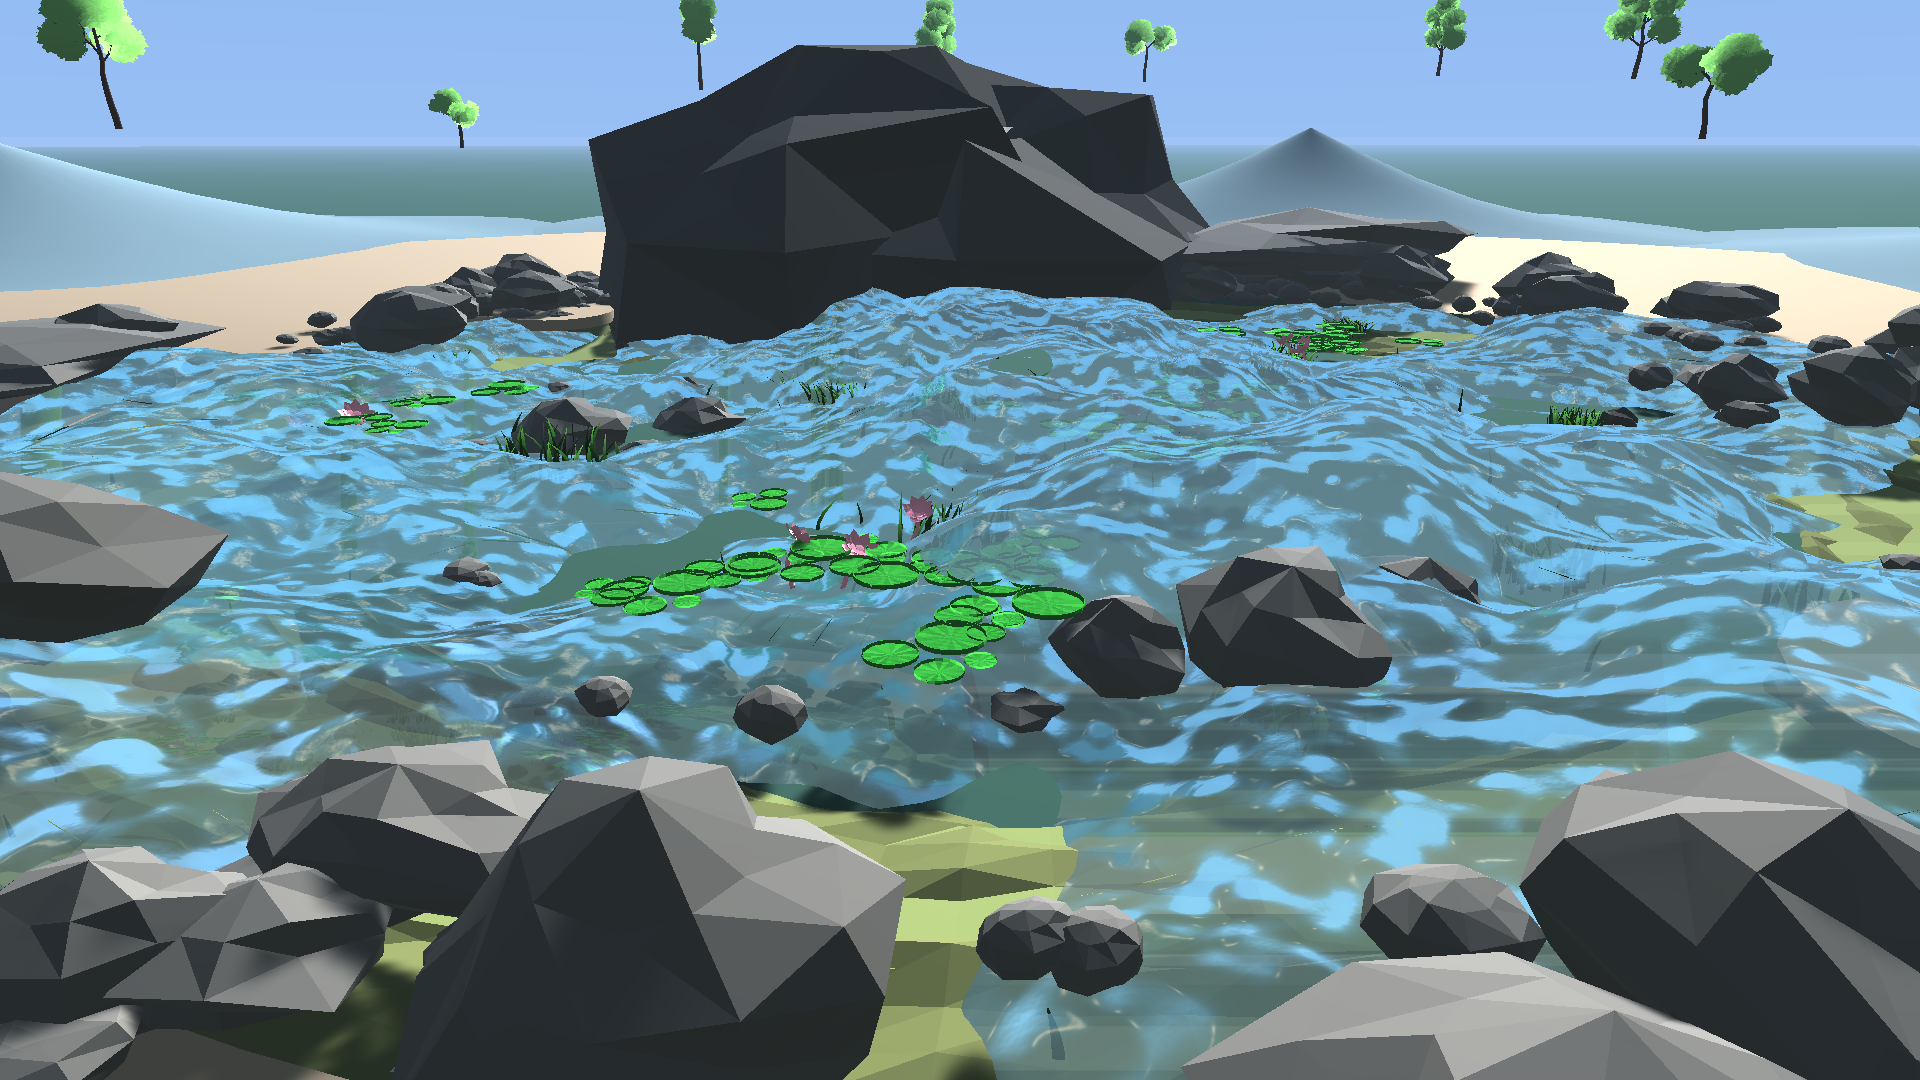
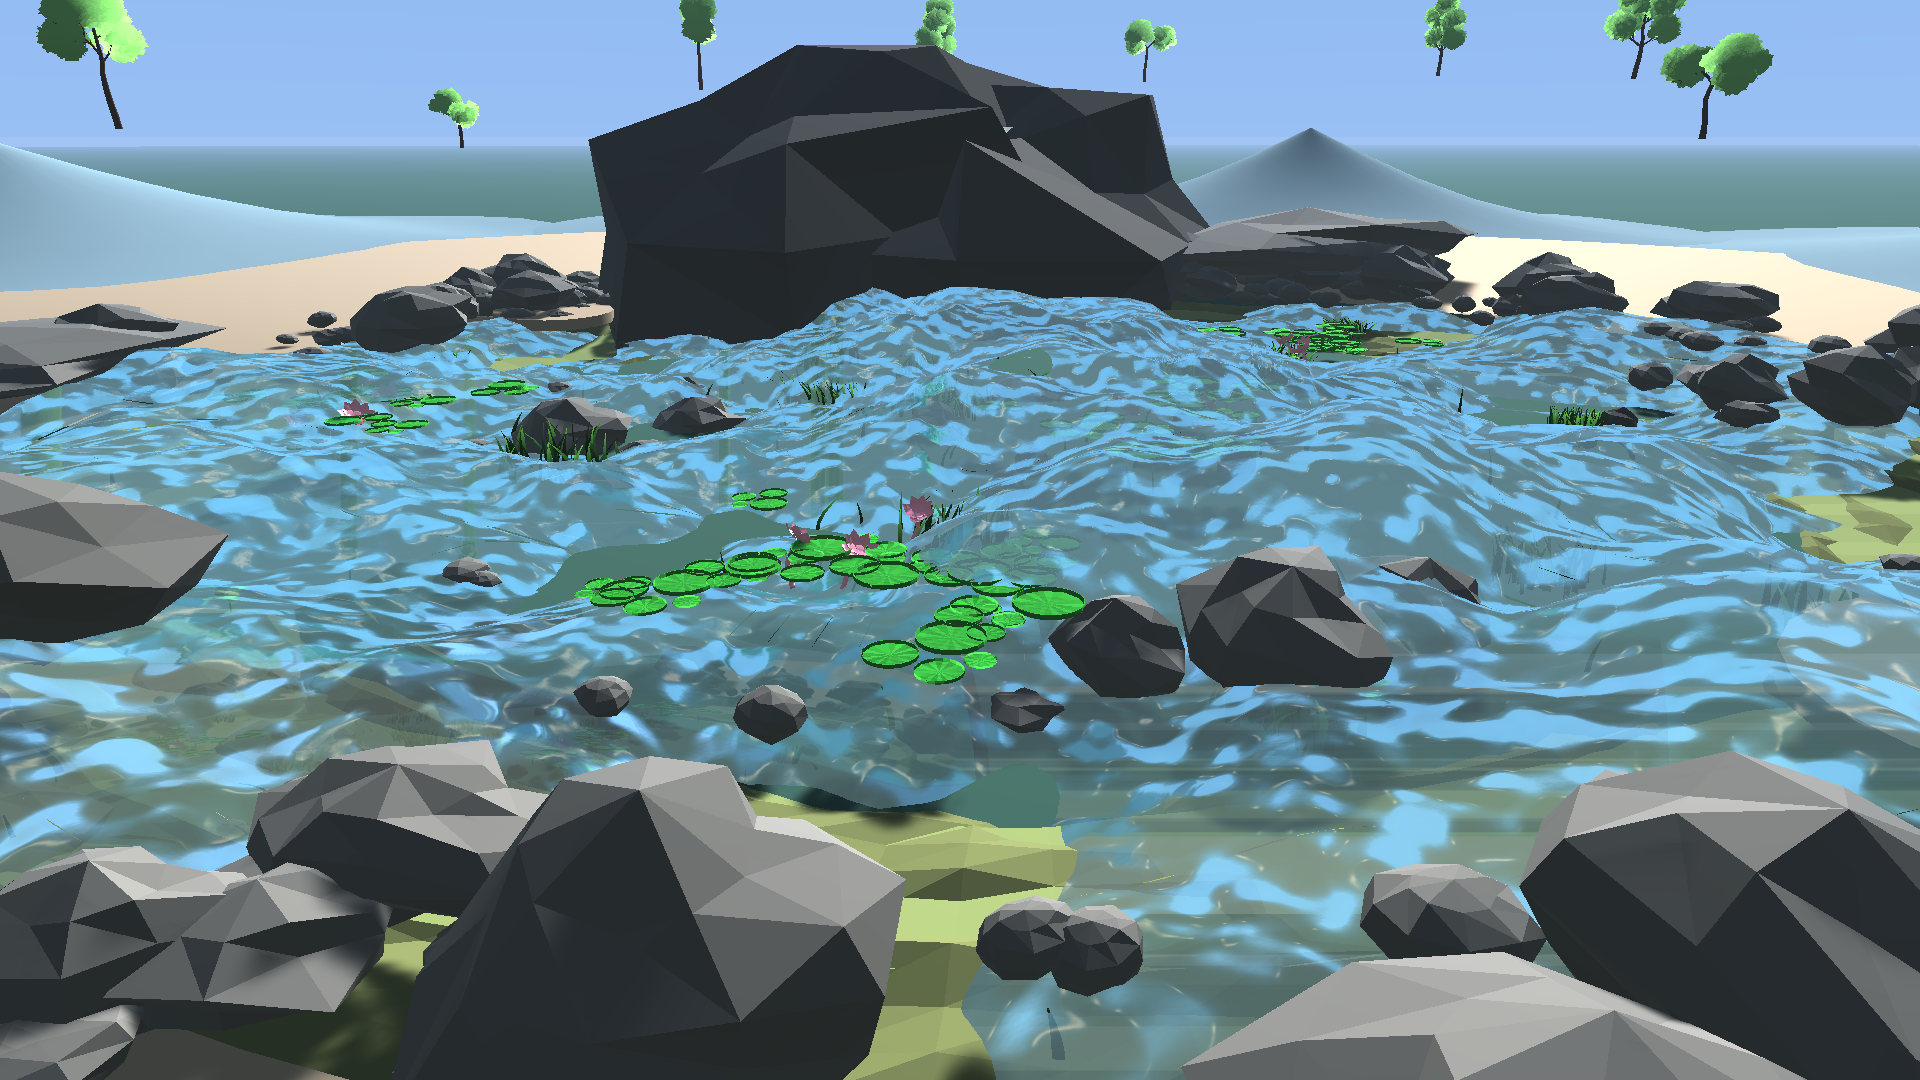
fix(R102): Main 水面'玻璃格子'隔离并修复. ①隔离实验: _DetailStrength=0 时格子完全消失 => 真凶是细节法线(NoiseSlope), 不是焦散/反射 ②根因: NoiseSlope 用 value noise, 等值面是格子的面, 格内斜率恒定 => 扰动法线每格同朝向 => 高光切成多边形(和云同一个病) ③修法: NoiseSlope 内部换梯度噪声Perlin + _DetailStrength 1.4->0.5 ④Main 115.1/53.7/83.8/近黑0.01/爆白0.35 ⑤高强度下仍有细网格, 属该实现上限

diff --git a/Docs/学习路径与知识库/检测报告/R56_场景画质与采集口径.md b/Docs/学习路径与知识库/检测报告/R56_场景画质与采集口径.md
@@ -634,3 +634,28 @@ Main：115.1 / 53.7 / 83.8 / 近黑 0.01 / 爆白 0.35
 
 ⚠ 遗留：水面仍有一层**"玻璃格子"状花纹**（多边形网格感），来源未定（疑似细节法线或焦散图案），
 需要单参数隔离才能确认 —— 下一轮做。
+
+---
+
+## R102：Main 水面"玻璃格子"的隔离与修复
+
+### 隔离实验（一次性判定）
+| `_DetailStrength` | 画面 |
+| --- | --- |
+| **0** | 玻璃格子**完全消失**，只剩柔和的波带 |
+| 1.4（原值） | 强烈的多边形网格感 |
+
+⇒ 真凶是**细节法线**（`DetailNormal` / `NoiseSlope`），不是焦散、不是反射。
+
+### 根因
+`NoiseSlope` 用的是 **value noise**：它的等值面天生是"一个个格子的面"，格内斜率几乎恒定
+⇒ 扰动后的法线在每格里朝同一方向 ⇒ 高光被切成一块块多边形。**和云是同一个病**。
+
+### 修法
+把 `NoiseSlope` 内部的噪声换成**梯度噪声（Perlin）**，斜率连续变化；
+`_DetailStrength` 1.4 → **0.5**（Perlin 下 1.4 仍偏"碎"，0.5 是"有波纹但不结网"的折中）。
+
+### 结果
+Main：115.1 / 53.7 / 83.8 / 近黑 0.01 / 爆白 0.35。
+水面从"揉皱的锡纸"变成有柔和波纹的水面；**高强度下仍能看到细网格**，属该实现的已知上限
+（要彻底解决需要"多向 FBM + 各向异性"级别的重写，本轮不做）。
